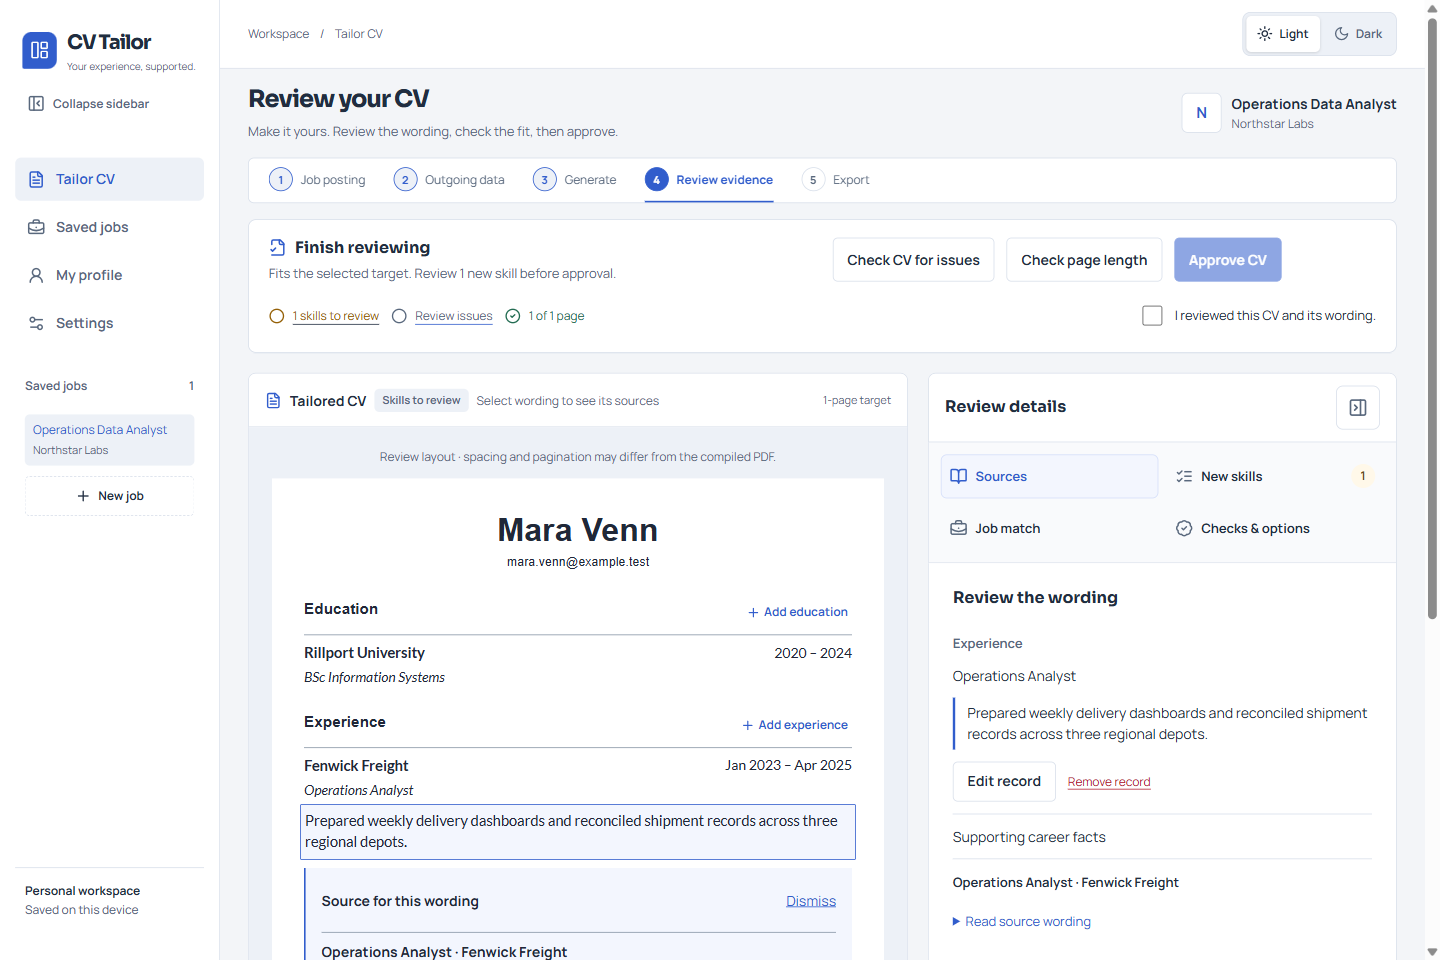
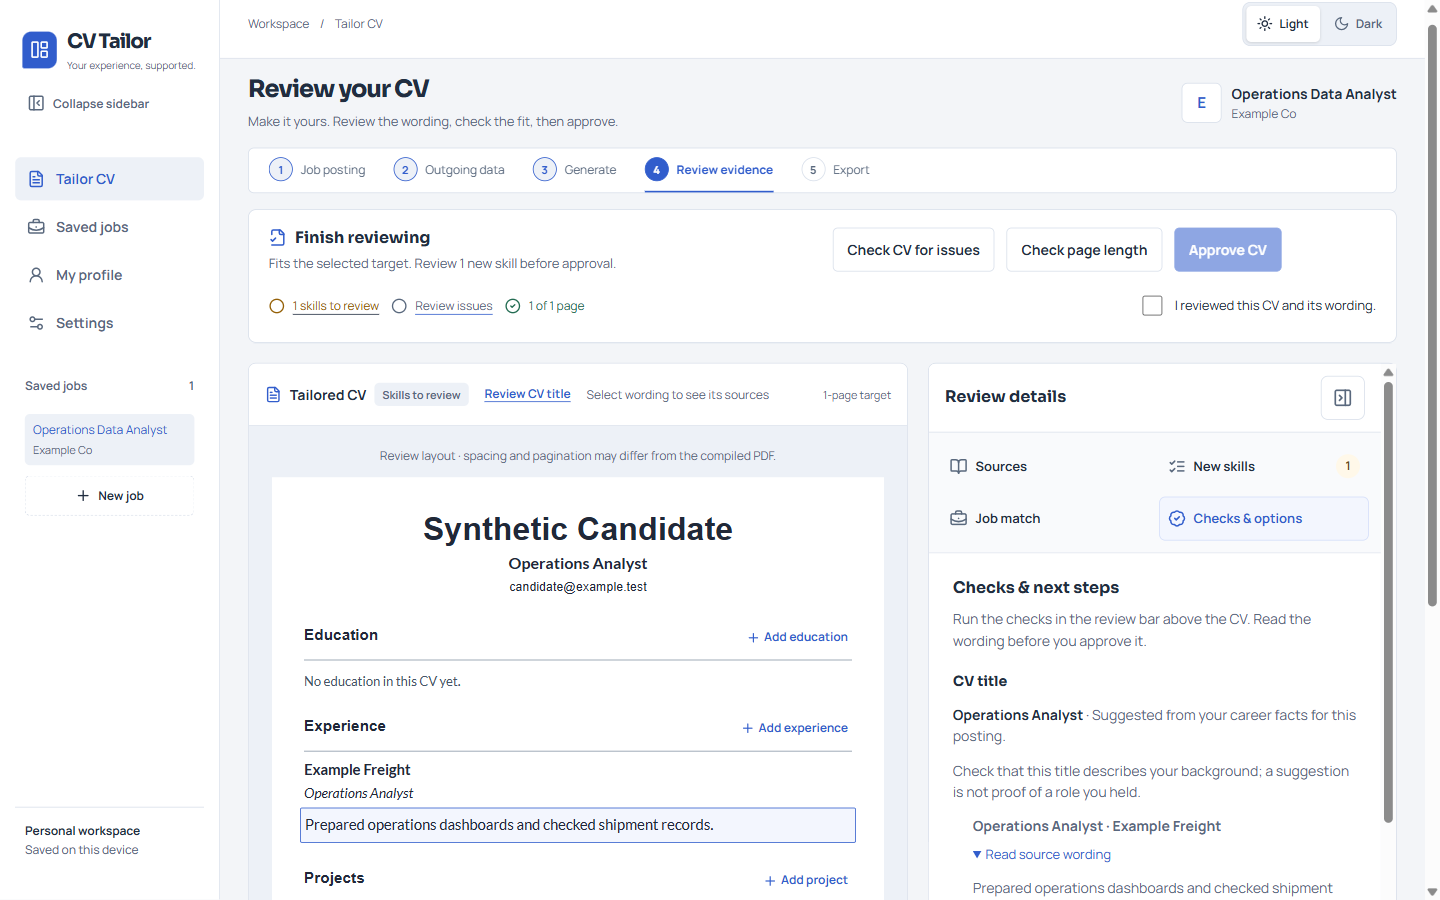
Show current CV title in README screenshot

diff --git a/README.md b/README.md
@@ -2,7 +2,7 @@
 
 A Windows desktop workbench for turning your own career facts and a manually saved job posting into a tailored CV you can inspect before exporting. Profile and job records stay in your local workspace; model work uses your chosen Pi provider **only after you review the outgoing text and authorize that run**. The app does not fetch job postings or guarantee an ATS or hiring outcome.
 
-![CV Tailor Review evidence screen showing a fictional CV, selected wording, inline source, and review controls](docs/images/review-evidence.png)
+![CV Tailor Review evidence screen showing a fictional CV with a professional title, selected wording, source details, and review controls](docs/images/review-evidence.png)
 
 *Screenshot of the real development app with a fictional, scripted test fixture. No personal CV or live provider result is shown.*
 
